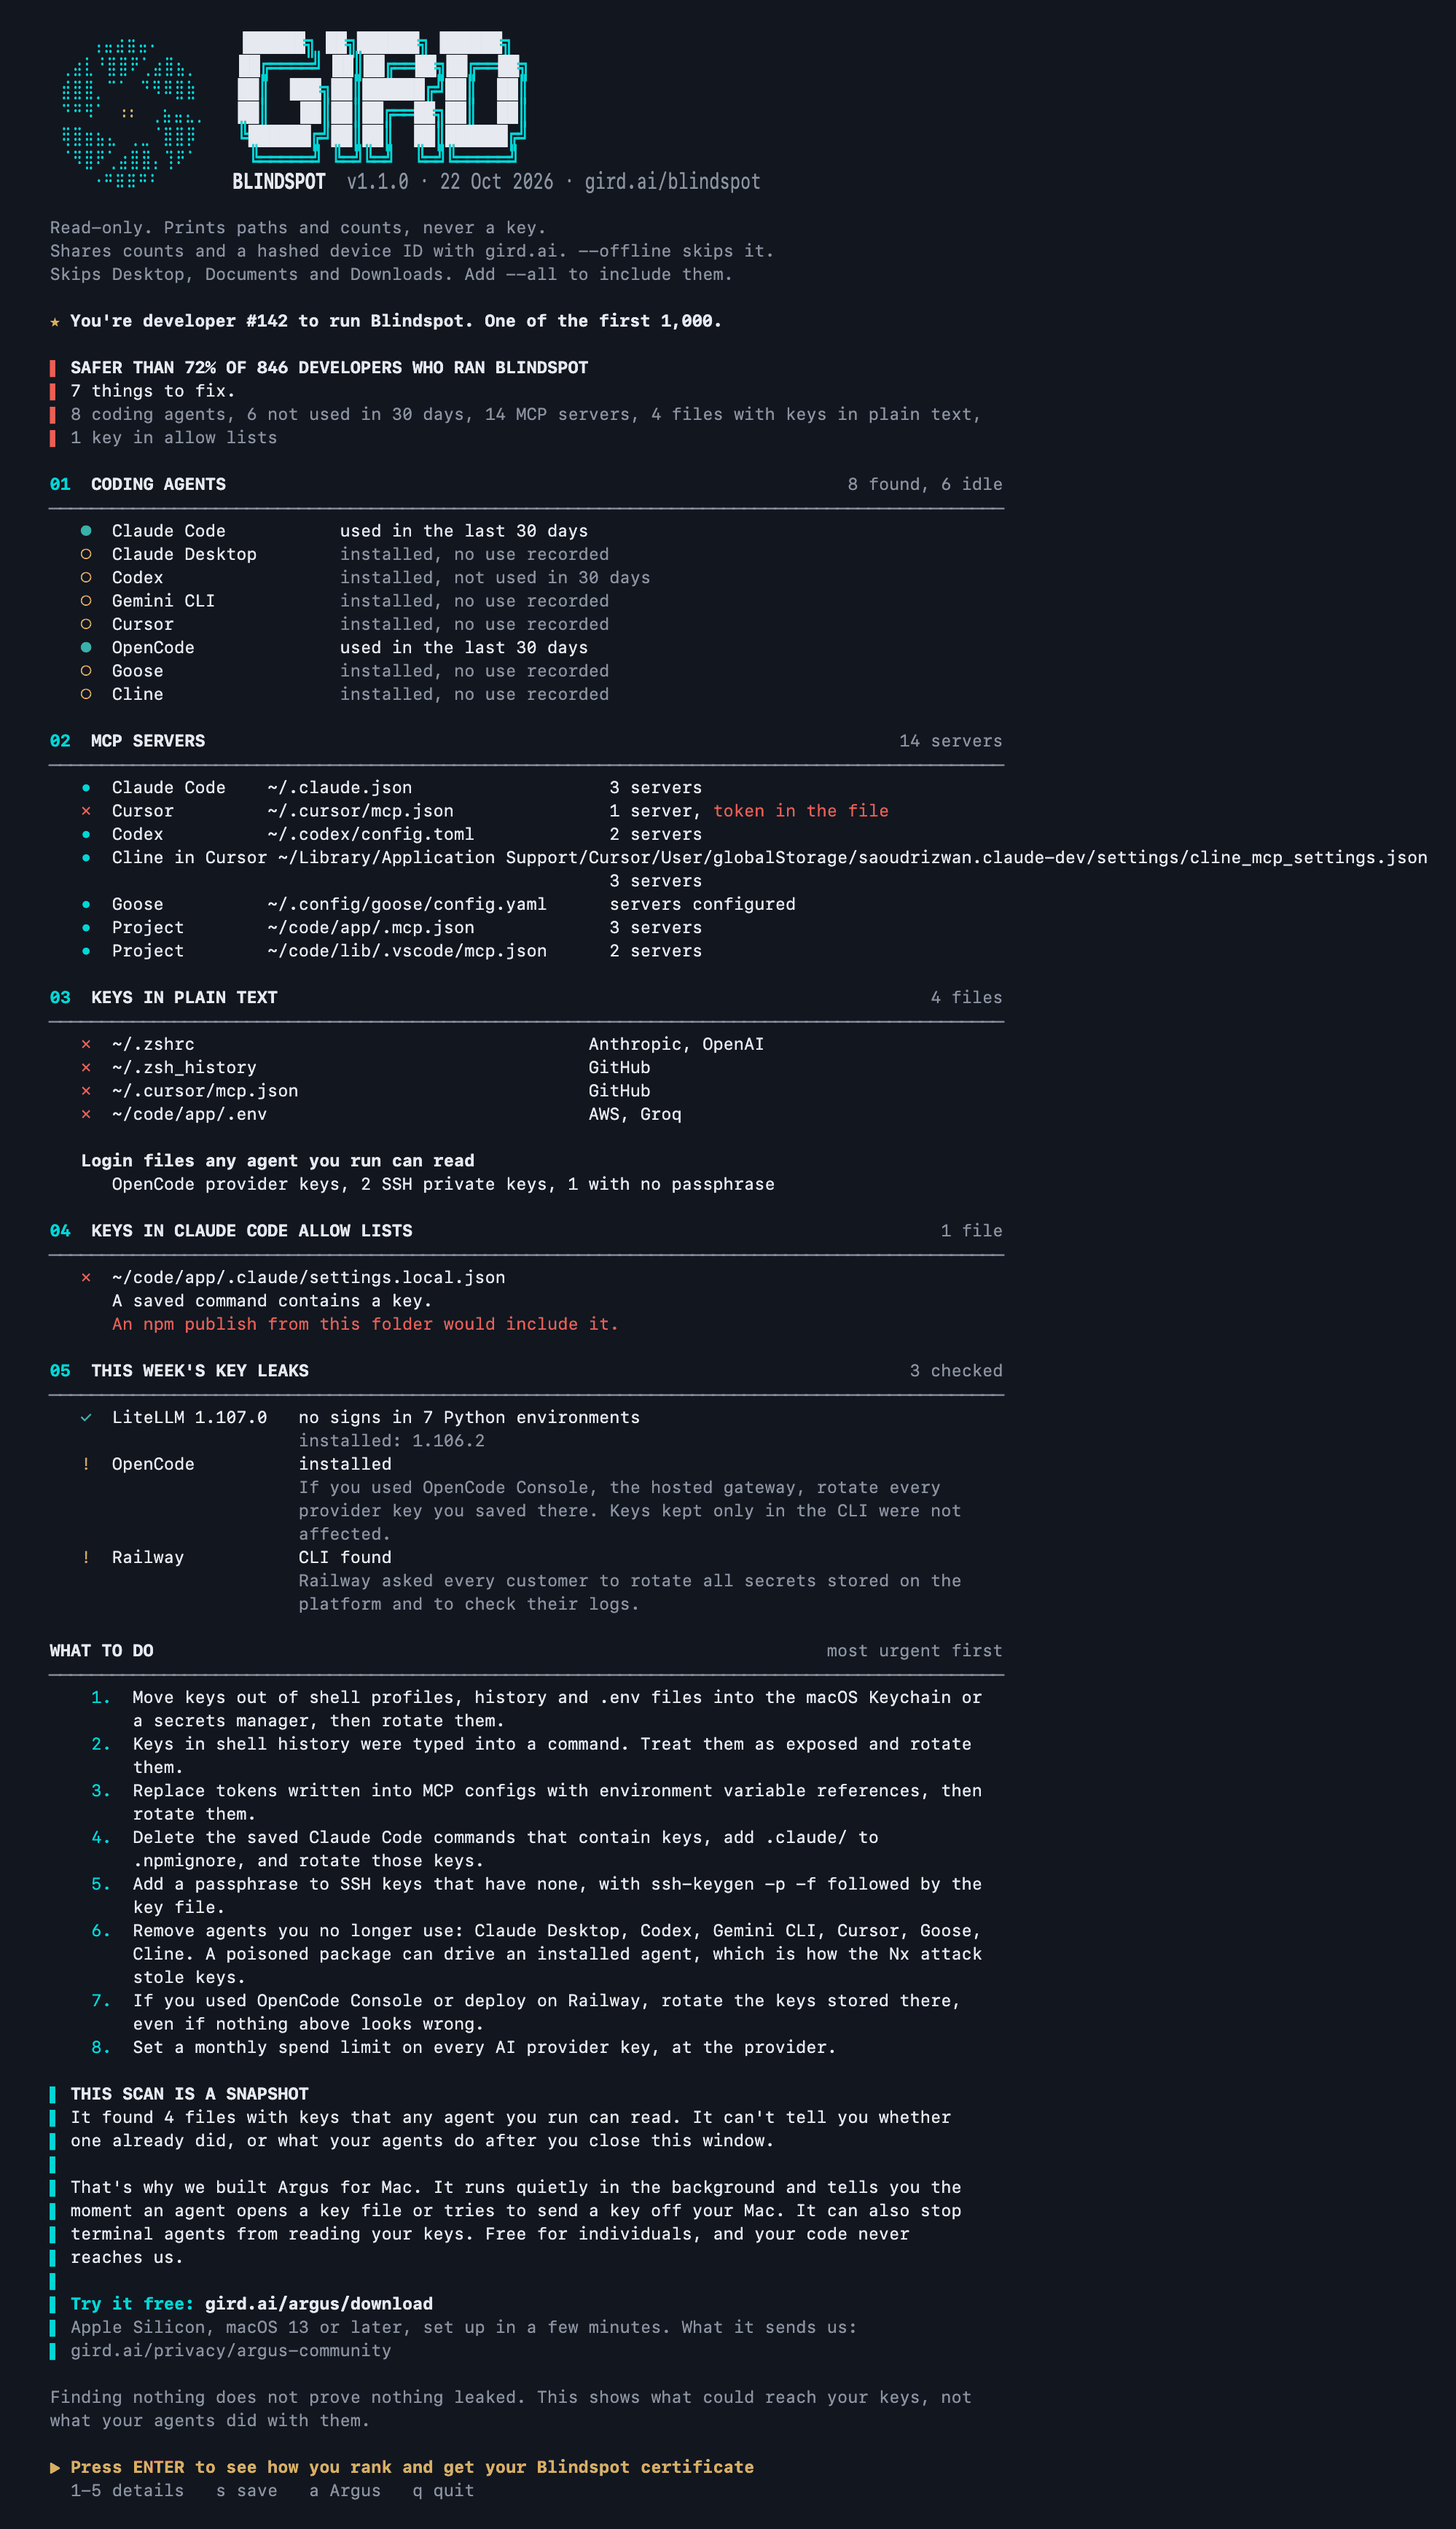
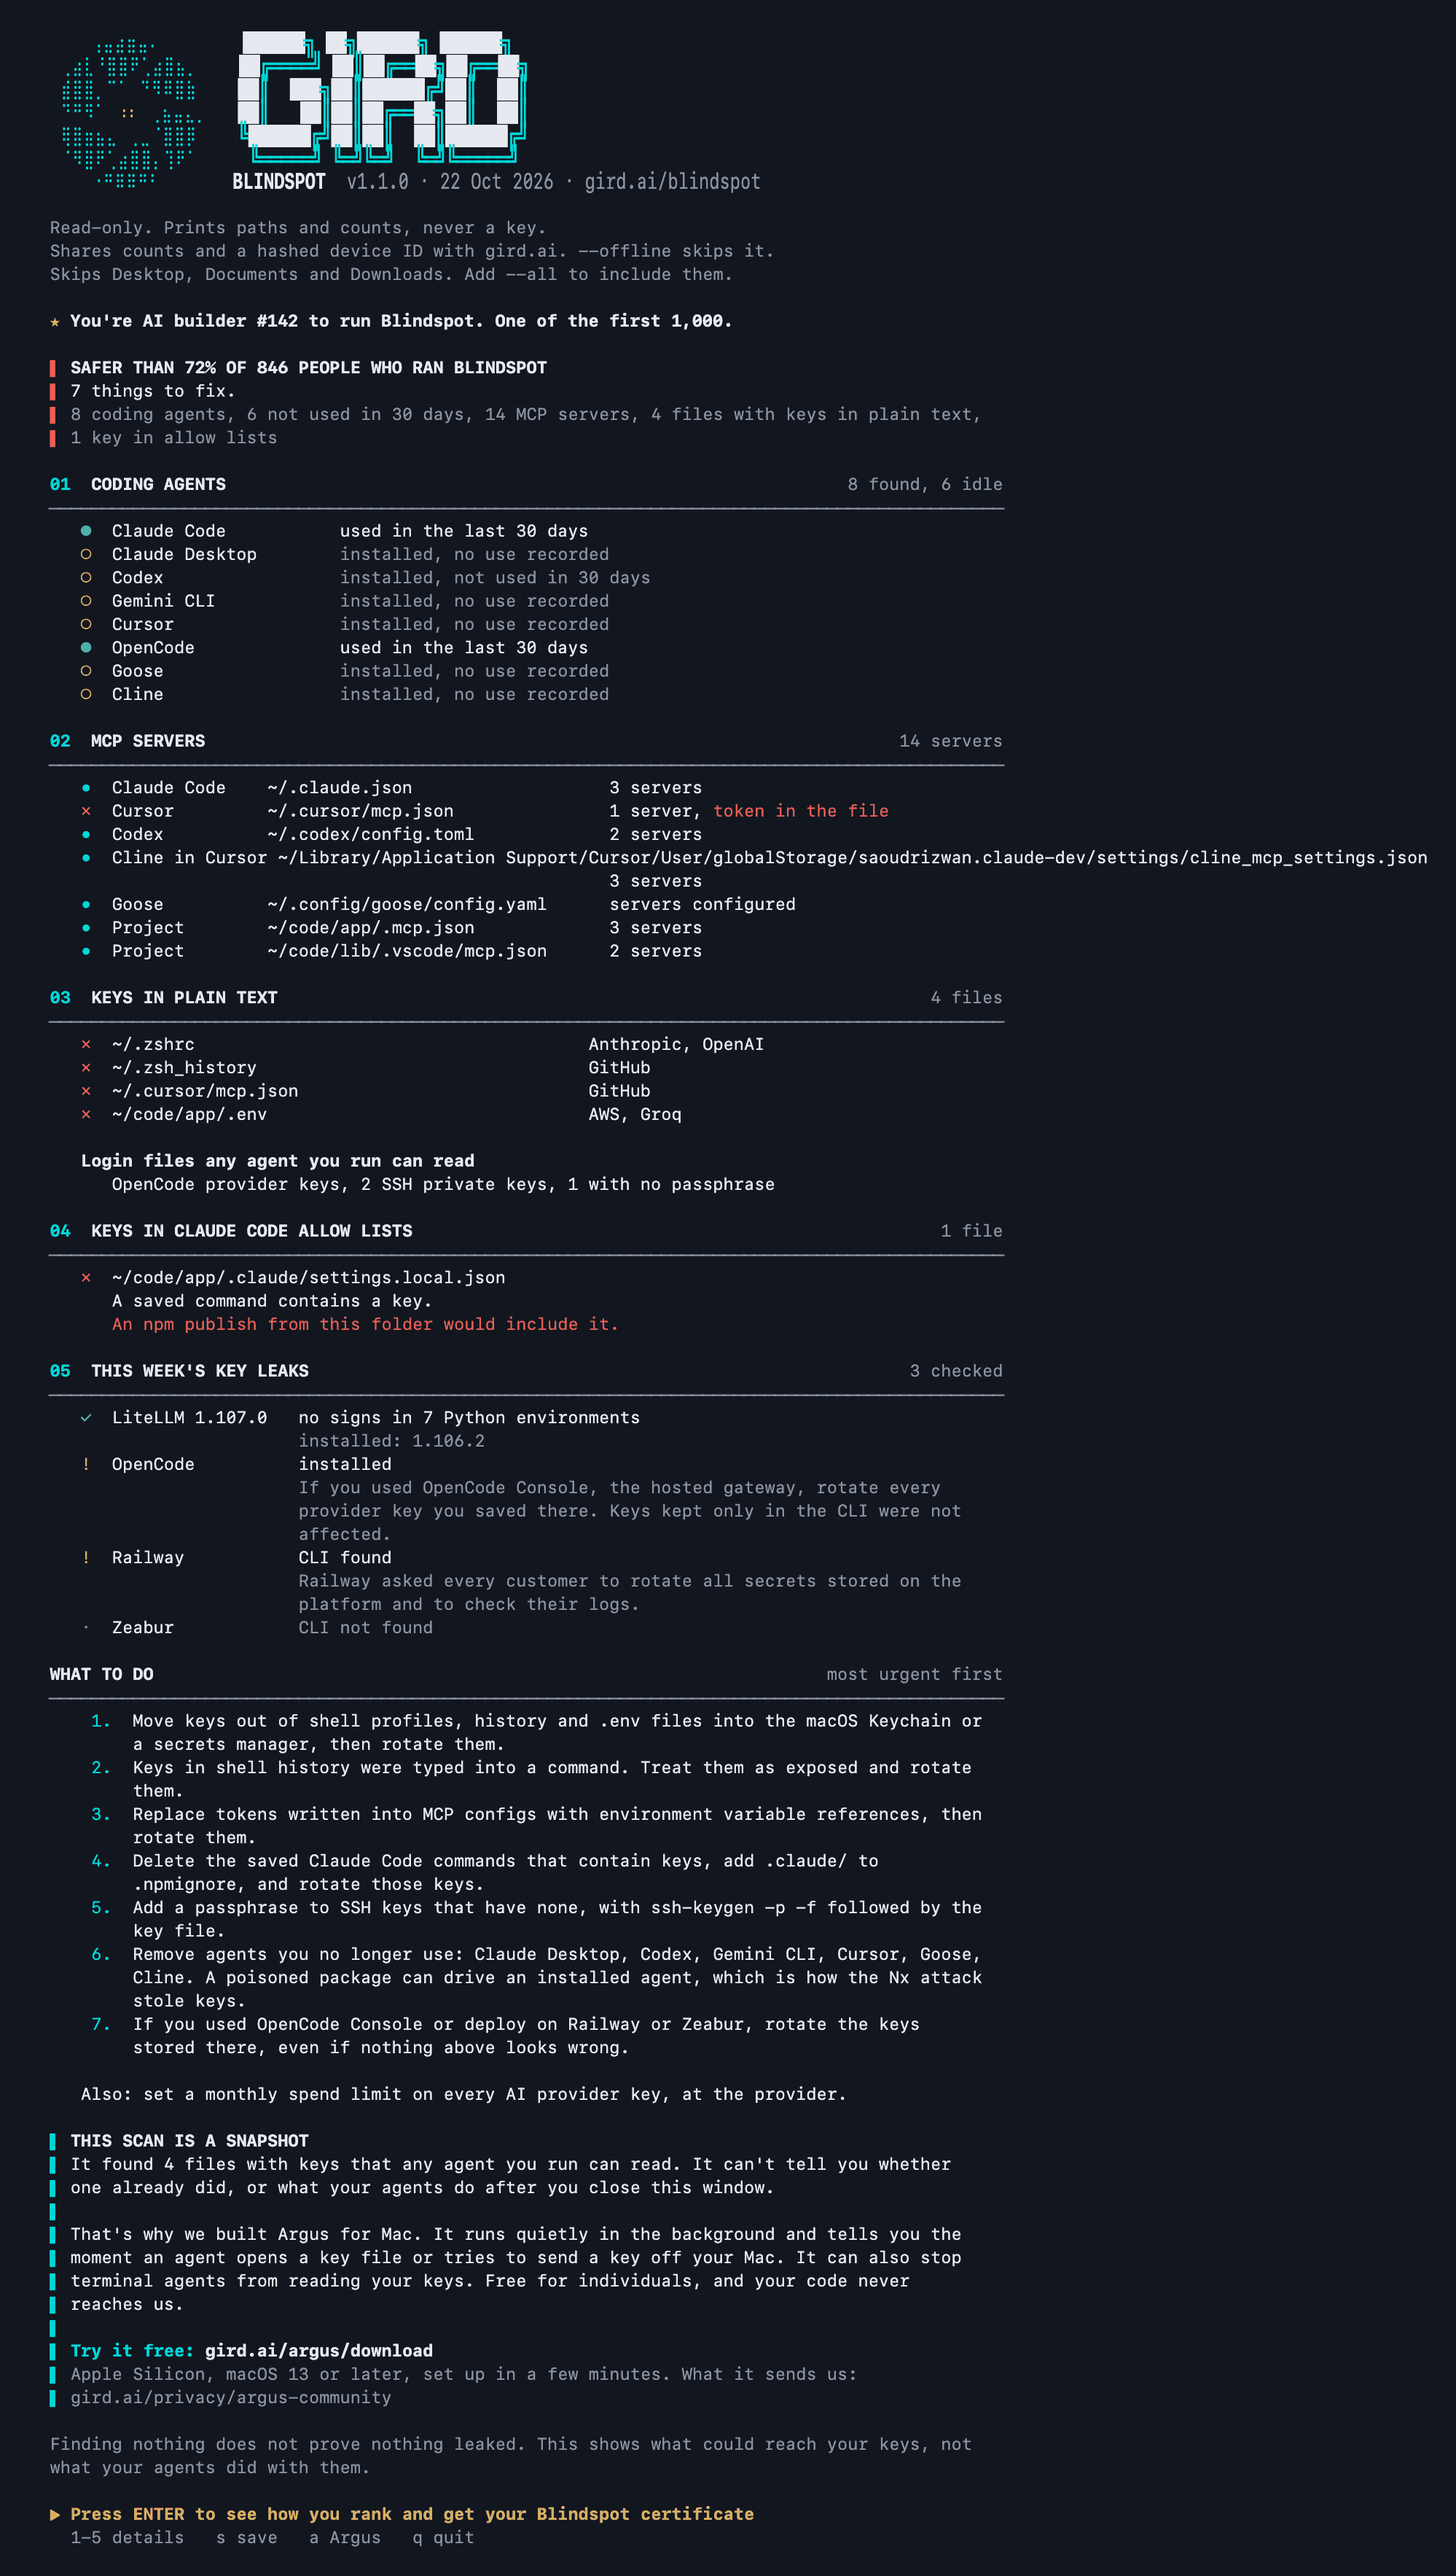
Say "people", "AI builder" and "no findings" in the report
The report and screenshots say "people who ran Blindspot" instead of
developers, the early-rank line reads "You're AI builder #N", and a
scan with nothing in it says "No findings in this scan" and that it is
not a guarantee, instead of "Clean today". A leftover cook.pyc alone is
now a "possible leftover" to check, not an act-now hit; cook.pth,
cook.py, the 1.107.0 install record, the marker files and a running
loader still are.

diff --git a/README.md b/README.md
@@ -1,5 +1,5 @@
 <p align="center">
-  <a href="docs/report-full.png"><img src="docs/report.png" alt="A Blindspot run in a terminal: safer than 72% of 846 developers who ran it, developer #142 of the first 1,000, one line per check, and the prompt to get a certificate" width="760"></a>
+  <a href="docs/report-full.png"><img src="docs/report.png" alt="A Blindspot run in a terminal: safer than 72% of 846 people who ran it, AI builder #142 of the first 1,000, one line per check, and the prompt to get a certificate" width="760"></a>
 </p>
 
 # Blindspot
@@ -43,7 +43,7 @@ Please don't pipe it straight into a shell. Reading it first is the point.
 4. **Keys saved in Claude Code allow lists.** Click "always allow" on a command that has a key in it, and Claude Code saves the whole command in the project's settings file. Blindspot flags each one, and whether an npm publish from that folder would ship it.
 5. **That week's leaks.** Files left by the LiteLLM 1.107.0 malware in every Python environment it finds, the bad package in your uv cache, and what to rotate if you use OpenCode Console, Railway or Zeabur.
 
-At the end you get a short summary: how you compare with the other developers who ran it, one line per check, and the first thing to fix. The first 1,000 developers also get their number. Press 1 to 5 for the details of a check, s to save the full report, or ENTER for your Blindspot certificate: a page with your result, the steps to fix what it found, and a certificate image to post on LinkedIn or X. `--full` prints every detail instead, and so does running it into a file or a pipe.
+At the end you get a short summary: how you compare with the other people who ran it, one line per check, and the first thing to fix. The first 1,000 people also get their number. Press 1 to 5 for the details of a check, s to save the full report, or ENTER for your Blindspot certificate: a page with your result, the steps to fix what it found, and a certificate image to post on LinkedIn or X. `--full` prints every detail instead, and so does running it into a file or a pipe.
 
 ## What it never does
 
@@ -55,7 +55,7 @@ At the end you get a short summary: how you compare with the other developers wh
 
 ## What it shares
 
-When it starts, it asks gird.ai for public totals, such as how many developers have run it. That request sends nothing else. When it finishes, it sends one report to gird.ai: the counts above, which agents, key providers and well-known MCP servers it saw (from fixed lists, so no name you typed is sent), where keys sit by kind of file, a few facts about your setup such as your terminal app and macOS version, and a hashed device ID so repeat runs can be counted. The reply says how your result compares and, for the first 1,000 devices, your number. The certificate link carries a random run ID, and the certificate page sends it back only when you press a share button. Every field is listed in [TELEMETRY.md](TELEMETRY.md). Run it with `--offline`, or set `DO_NOT_TRACK=1`, and it makes no requests at all.
+When it starts, it asks gird.ai for public totals, such as how many people have run it. That request sends nothing else. When it finishes, it sends one report to gird.ai: the counts above, which agents, key providers and well-known MCP servers it saw (from fixed lists, so no name you typed is sent), where keys sit by kind of file, a few facts about your setup such as your terminal app and macOS version, and a hashed device ID so repeat runs can be counted. The reply says how your result compares and, for the first 1,000 devices, your number. The certificate link carries a random run ID, and the certificate page sends it back only when you press a share button. Every field is listed in [TELEMETRY.md](TELEMETRY.md). Run it with `--offline`, or set `DO_NOT_TRACK=1`, and it makes no requests at all.
 
 ## GIRD Runner
 

diff --git a/TELEMETRY.md b/TELEMETRY.md
@@ -55,8 +55,8 @@ File paths, file names, keys, key fragments, MCP server names that aren't on the
 
 | From | Example | What it is |
 |---|---|---|
-| The totals | `{"devices":1234,"devices_7d":456,"key_files":3412,"clean":0.31,...}` | Public totals, the same for everyone. The script shows one of them under the banner. Until 1,000 developers have run it, it shows none, and says you're one of the first 1,000 above your result instead |
-| The reply to the report | `{"p":72,"n":1234,"r":142}` | `p` is the share of developers whose latest run scored lower than yours, `n` how many developers that is. No `p` until at least 25 developers have run it. `r` is your place in line: 142 means 141 devices ran it before yours. Only the first 1,000 get one, and the script shows it above your result |
+| The totals | `{"devices":1234,"devices_7d":456,"key_files":3412,"clean":0.31,...}` | Public totals, the same for everyone. The script shows one of them under the banner. Until 1,000 people have run it, it shows none, and says you're one of the first 1,000 above your result instead |
+| The reply to the report | `{"p":72,"n":1234,"r":142}` | `p` is the share of people whose latest run scored lower than yours, `n` how many people that is. No `p` until at least 25 people have run it. `r` is your place in line: 142 means 141 devices ran it before yours. Only the first 1,000 get one, and the script shows it above your result |
 
 The script reads only digits from either reply, so a reply can't put anything else on your screen. The certificate link carries `p`, `n` and `r` after the `#`, which browsers never send to a server.
 

diff --git a/CHANGELOG.md b/CHANGELOG.md
@@ -2,6 +2,8 @@
 
 ## Unreleased
 
+- Wording: the report and the certificate say "people" where they said "developers", the early-rank label is "AI builder", and a result with nothing in it reads "No findings in this scan" with a note that it is not a guarantee. The certificate image is now an "AI Exposure Check" and says the scan was recorded, not verified.
+- A leftover `cook.pyc` alone is now a "possible leftover" to check, not an act-now hit. `cook.pth`, `cook.py`, the 1.107.0 install record, the marker files or a running loader still are.
 - The spend-limit tip is a plain line under "What to do", no longer a numbered item, so the list matches the "things to fix" count in the header.
 - MCP servers found inside plugin folders and caches (Codex's `.tmp/plugins`, Claude's `plugins` folder) are counted apart, such as "9 servers, 50 more in plugin folders", and shown as one line in the details. They no longer inflate the server count, and they are left out of the counts the script shares. A token written into one of those files is still flagged.
 - Zeabur joins OpenCode and Railway in the check for this week's leaks: if the Zeabur CLI or its settings folder is on your Mac, it says to rotate the keys stored there. A leftover compiled `cook` file from the LiteLLM malware now counts as a sign of it, even after `cook.py` was deleted.
